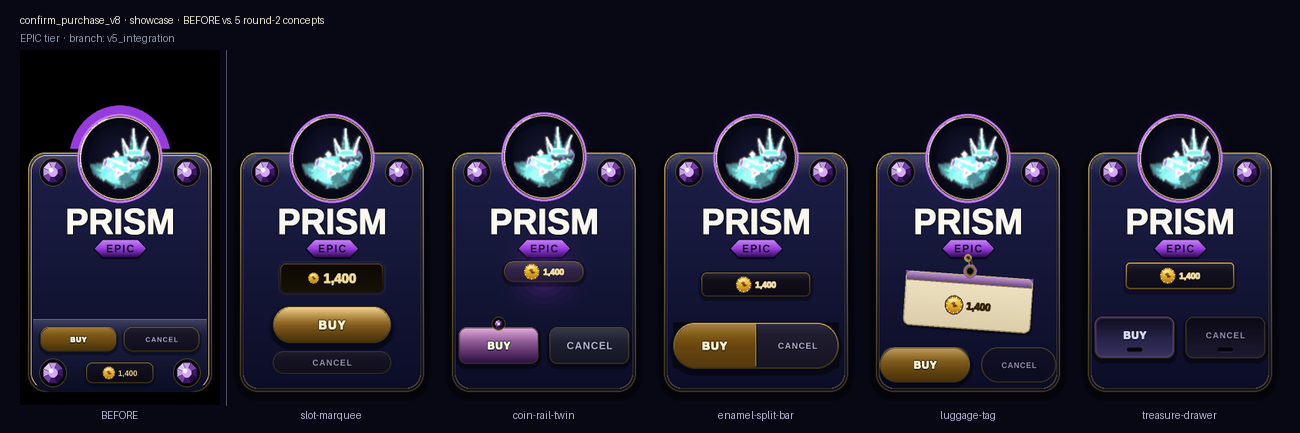
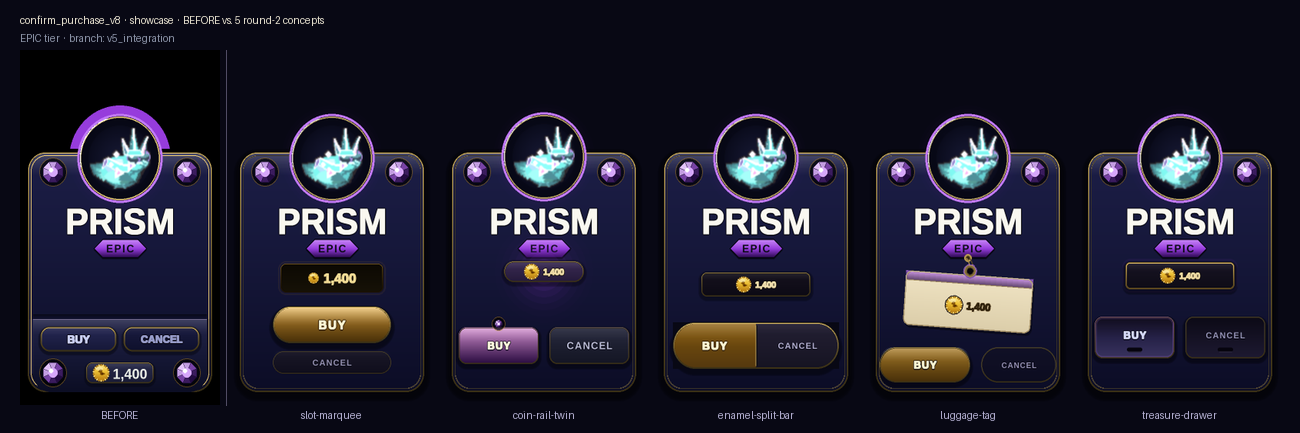
fix(showcase): BEFORE panel now mirrors _draw_confirm exactly
before_shelf() was approximating the shelf with wrong button colors
(gold BUY instead of blue-purple) and undersized chip text (font 10,
coin_r=8 instead of font 18, coin_r=11). Now faithfully reproduces
_draw_confirm: correct gradients/labels for BUY/CANCEL, chip at full
font-18 size with gold bevel_rim, seat shadow above shelf, and
side-wall feathering — all matching the affordable=True code path.

Claude-Session: https://claude.ai/code/session_01HZruNdjCPrRs3WrJUvXQLo

Changed region(s): [[0.0308, 0.7506, 0.1538, 0.8106], [0.0615, 0.8406, 0.1231, 0.9007]]

diff --git a/tools/_confirm_v8_showcase.py b/tools/_confirm_v8_showcase.py
@@ -124,22 +124,21 @@ def hero_disc(big, sid, pal):
     pygame.draw.circle(big, pal["gem"], (cx, cy), r + rw // 2 + m(1), rw)
 
 
-# ── BEFORE: original v5_integration shelf layout ──────────────────────────────
+# ── BEFORE: faithful reproduction of _draw_confirm (affordable=True) ─────────
 def before_shelf(big, price_str, pal):
-    """Reproduces the current v5_integration shelf: small buttons + isolated price chip."""
+    """Mirrors _draw_confirm shelf, chip, buttons, bottom gems exactly (affordable=True)."""
     SHELF_X, SHELF_Y, SHELF_W, SHELF_H = 17, 335, 226, 91
     SHELF_RAD = m(CARD_RAD)
     BTN_W, BTN_H, BTN_RAD, BTN_CY, BTN_GAP = 99, 31, 12, 360, 10
     BUY_CX = CX - (BTN_W + BTN_GAP) // 2   # = 75
     CAN_CX = CX + (BTN_W + BTN_GAP) // 2   # = 185
-    CHIP_CY, CHIP_W, CHIP_H = 402, 88, 26
+    CHIP_CY, CHIP_W, CHIP_H, CHIP_RAD = 402, 88, 26, 8
     BOT_GEM_CY = 402
 
     # shelf body (bottom rounded corners only)
     shelf_rect = pygame.Rect(m(SHELF_X), m(SHELF_Y), m(SHELF_W), m(SHELF_H))
     shelf = vgrad_stops(shelf_rect.w, shelf_rect.h, 0,
-                        [(0.0, (34,36,72)), (0.5, (22,24,54)), (1.0, (12,14,36))],
-                        255).copy()
+                        [(0.0,(34,36,72)),(0.5,(22,24,54)),(1.0,(12,14,36))], 255).copy()
     smask = pygame.Surface(shelf_rect.size, pygame.SRCALPHA)
     pygame.draw.rect(smask, (255,255,255,255), smask.get_rect(),
                      border_bottom_left_radius=SHELF_RAD,
@@ -147,52 +146,74 @@ def before_shelf(big, price_str, pal):
     shelf.blit(smask, (0,0), special_flags=pygame.BLEND_RGBA_MIN)
     sc.top_sheen(shelf, shelf.get_rect(), 0, m(20), peak=35)
     pygame.draw.line(shelf, (115,106,140), (0,0), (shelf_rect.w-1, 0), max(1, m(1)))
+    seat = pygame.Surface((shelf_rect.w, m(6)), pygame.SRCALPHA)
+    for _yy in range(m(6)):
+        _a = int(120 * (1 - _yy / m(6)))
+        pygame.draw.line(seat, (0,0,0,_a), (0,_yy), (shelf_rect.w-1, _yy))
+    big.blit(seat, (shelf_rect.x, shelf_rect.y - m(6)))
     big.blit(shelf, shelf_rect.topleft)
 
-    # price chip (88×26) at cy=402
+    # side-wall feathering between card edge and shelf edge
+    wall_draw_h = m(CARD_TOP_Y + CARD_H - CARD_RAD - SHELF_Y)  # m(68)
+    if wall_draw_h > 0:
+        wall_w = m(SHELF_X - CARD_X)
+        for col_fn, bx in [
+            (lambda xx: (130,120,165, int(50*xx/max(1,wall_w-1))), m(CARD_X)),
+            (lambda xx: (0,0,0, int(50*(1-xx/max(1,wall_w-1)))), m(SHELF_X+SHELF_W)),
+        ]:
+            _wall = pygame.Surface((wall_w, wall_draw_h), pygame.SRCALPHA)
+            for _xx in range(wall_w):
+                pygame.draw.line(_wall, col_fn(_xx), (_xx,0), (_xx, wall_draw_h-1))
+            big.blit(_wall, (bx, m(SHELF_Y)))
+
+    # price chip (88×26, font 18, coin_r=m(11)) — mirrors _chip() in store.py
     cx_ = m(CX)
     cy_ = m(CHIP_CY)
-    cw_ = m(CHIP_W)
-    ch_ = m(CHIP_H)
-    chip_rad = m(8)
-    chip_r = pygame.Rect(cx_ - cw_//2, cy_ - ch_//2, cw_, ch_)
-    sc.drop_shadow(big, chip_r, chip_rad, blur=m(3), alpha=80, dy=m(2))
-    big.blit(vgrad_stops(cw_, ch_, chip_rad,
-                         [(0.0,(22,18,34)),(1.0,(12,10,22))], 255, gamma=1.0),
-             chip_r.topleft)
-    sc.bevel_rim(big, chip_r, chip_rad, CARD_RING_DEEP, (*CARD_RING_BRIGHT, 200),
+    chip = pygame.Rect(0, 0, m(CHIP_W), m(CHIP_H))
+    chip.center = (cx_, cy_)
+    crad = m(CHIP_RAD)
+    sc.drop_shadow(big, chip, crad, blur=m(3), alpha=80, dy=m(2))
+    big.blit(vgrad_stops(chip.w, chip.h, crad,
+                         [(0.0,(40,42,74)),(1.0,(26,28,54))], 255), chip.topleft)
+    sc.top_sheen(big, chip, crad, m(9), peak=30)
+    sc.bevel_rim(big, chip, crad, CARD_RING_DEEP, (*CARD_RING_BRIGHT, 200),
                  w=max(1, m(1.4)))
+    num_font = font(18)
+    coin_r   = m(11)
+    gap      = m(4)
+    num_w    = num_font.size(price_str)[0]
+    total    = coin_r * 2 + gap + num_w
+    left     = cx_ - total // 2
+    coin_cx  = left + coin_r
+    num_cx   = left + coin_r * 2 + gap + num_w // 2
+    sc.coin_glyph(big, coin_cx, cy_, coin_r)
+    plain_text(big, price_str, num_font, (num_cx, cy_ + m(1)), (236,240,232),
+               shadow_a=0, weight=m(0.7))
 
-    # coin + price on chip (small — price is subordinate to the isolated chip)
-    f_chip = font(10)
-    tw_chip = sc._glyph_base(price_str, f_chip, 0).get_width()
-    coin_r_c = m(8)
-    grp = coin_r_c*2 + m(4) + tw_chip
-    coin_cx_c = cx_ - grp//2 + coin_r_c
-    text_cx_c = coin_cx_c + coin_r_c + m(4) + tw_chip//2
-    sc.coin_glyph(big, coin_cx_c, cy_, coin_r_c)
-    plain_text(big, price_str, f_chip, (text_cx_c, cy_), (230, 210, 160),
-               shadow_a=80, weight=m(0.7), keyline=(20,14,4), kw=m(0.6))
+    # BUY button (99×31, blue-purple) — mirrors _btn(rect, "BUY") in store.py
+    brad = m(BTN_RAD)
+    buy_r = pygame.Rect(0, 0, m(BTN_W), m(BTN_H))
+    buy_r.center = (m(BUY_CX), m(BTN_CY))
+    sc.drop_shadow(big, buy_r, brad, blur=m(3), alpha=100, dy=m(2))
+    big.blit(vgrad_stops(buy_r.w, buy_r.h, brad,
+                         [(0.0,(38,40,84)),(1.0,(22,24,56))], 255), buy_r.topleft)
+    sc.top_sheen(big, buy_r, brad, m(12), peak=22)
+    sc.bevel_rim(big, buy_r, brad, CARD_RING_DEEP, (*CARD_RING_BRIGHT, 230),
+                 w=max(1, m(2.0)))
+    plain_text(big, "BUY", font(14), buy_r.center, (200,205,240),
+               shadow_a=110, weight=m(0.8), keyline=(8,6,20), kw=m(0.9))
 
-    # BUY button (99×31)
-    for cx_btn, lbl, is_b in [(m(BUY_CX), "BUY", True), (m(CAN_CX), "CANCEL", False)]:
-        bw, bh, br = m(BTN_W), m(BTN_H), m(BTN_RAD)
-        br_rect = pygame.Rect(cx_btn - bw//2, m(BTN_CY) - bh//2, bw, bh)
-        if is_b:
-            stops = [(0.0,(148,106,28)),(1.0,(72,48,10))]
-            lab_c = (255,246,208)
-            rim_b = (*CARD_RING_BRIGHT, 220)
-        else:
-            stops = [(0.0,(28,24,42)),(1.0,(16,14,28))]
-            lab_c = (176,172,208)
-            rim_b = (*CARD_RING_BRIGHT, 140)
-        sc.drop_shadow(big, br_rect, br, blur=m(3), alpha=100, dy=m(2))
-        big.blit(vgrad_stops(bw, bh, br, stops, 255, gamma=1.1), br_rect.topleft)
-        sc.top_sheen(big, br_rect, br, m(10), peak=36 if is_b else 10)
-        sc.bevel_rim(big, br_rect, br, CARD_RING_DEEP, rim_b, w=max(1, m(1.4)))
-        plain_text(big, lbl, font(9), br_rect.center, lab_c,
-                   shadow_a=120, tracking=m(1.1), weight=m(0.8 if is_b else 0.6),
-                   keyline=(6,6,16), kw=m(0.6))
+    # CANCEL button (99×31, dark blue) — mirrors _btn(rect, "CANCEL", is_cancel=True)
+    can_r = pygame.Rect(0, 0, m(BTN_W), m(BTN_H))
+    can_r.center = (m(CAN_CX), m(BTN_CY))
+    sc.drop_shadow(big, can_r, brad, blur=m(3), alpha=100, dy=m(2))
+    big.blit(vgrad_stops(can_r.w, can_r.h, brad,
+                         [(0.0,(26,28,64)),(1.0,(14,16,44))], 255), can_r.topleft)
+    sc.top_sheen(big, can_r, brad, m(12), peak=14)
+    sc.bevel_rim(big, can_r, brad, CARD_RING_DEEP, (*CARD_RING_BRIGHT, 230),
+                 w=max(1, m(2.2)))
+    plain_text(big, "CANCEL", font(13), can_r.center, (150,155,200),
+               shadow_a=110, weight=m(0.8), keyline=(8,6,20), kw=m(0.9))
 
     # bottom gems flanking chip
     for gx in [m(GEM_L_X), m(GEM_R_X)]:
